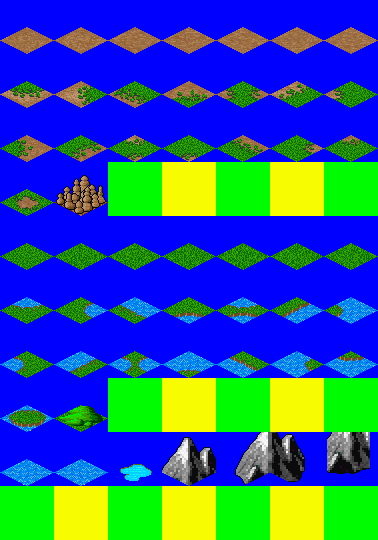
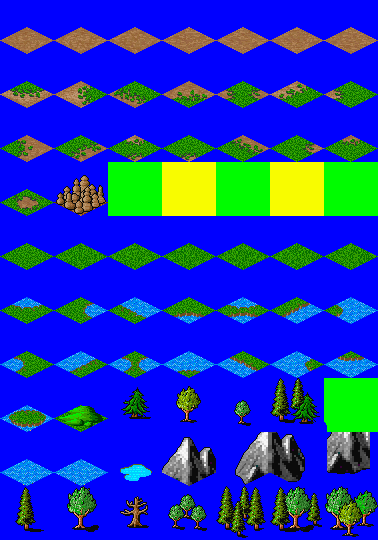
Edge of Civilization accessed from castle front door

Changed region(s): [[0.0, 0.8889, 1.0, 1.0], [0.2619, 0.6815, 0.873, 0.8]]

diff --git a/mapgen.py b/mapgen.py
@@ -4,6 +4,7 @@ import context
 import animobs
 import maps
 import waypoints
+import math
 
 class Plasma( object ):
     """Creates a plasma; cels have value from 0.0 to 1.0."""
@@ -370,6 +371,9 @@ class Room( object ):
         self.draw_direct_connection( gb, x1, y1, cx, cy )
         self.draw_direct_connection( gb, x2, y2, cx, cy )
 
+    def find_distance_to( self, oroom ):
+        return round( math.sqrt( ( self.area.centerx-oroom.area.centerx )**2 + ( self.area.centery-oroom.area.centery )**2 ) )
+
 
 class FuzzyRoom( Room ):
     """A room without hard walls, with default ground floors."""
@@ -616,37 +620,34 @@ class EdgeOfCivilization( RandomScene ):
         # Run a road along one edge of the map. Stick everything else in a
         # sub-rect to arrange there. Keep track of the civilized areas.
         self.wilds = Room( width=self.width-10, height=self.height, anchor=west, parent=self )
+        self.wilds.area = pygame.Rect( 0, 0, self.wilds.width, self.wilds.height )
         self.wilds.FUZZY_FILL_TERRAIN = maps.LOGROUND
 
         self.civilized_bits = list()
         for r in self.contents[:]:
             if r is not self.wilds:
                 self.contents.remove( r )
-                self.wilds.append( r )
+                self.wilds.contents.append( r )
                 if context.CIVILIZED in r.tags:
                     self.civilized_bits.append( r )
 
         # Create the road.
         road = pygame.Rect( self.area.x + self.area.width - 10, self.area.y, 7, self.area.height )
-        self.fill( gb, river, floor=maps.HIGROUND, wall=None )
-        self.fill( gb, river.inflate(4,0), wall=None )
+        self.fill( gb, road, floor=maps.HIGROUND, wall=None )
+        self.fill( gb, road.inflate(4,0), wall=None )
 
         self.roadbits = list()
         for y in range(10):
-            x = self.area.x + self.area.width - 10 + random(0,2)
+            x = self.area.x + self.area.width - 10 + random.randint(0,2)
             roadseg = Room( width=5, height=self.height//10, parent=self)
             roadseg.area = pygame.Rect( x, y*roadseg.height, roadseg.width, roadseg.height )
             self.roadbits.append( roadseg )
-
-    def find_distance_to_key( self, ulroom ):
-        return round( math.sqrt( ( self.key_room.area.centerx-ulroom.area.centerx )**2 + ( self.key_room.area.centery-ulroom.area.centery )**2 ) )
 
     def connect_contents( self, gb ):
         # Connect all civilized areas with HIGROUND.
         connected = self.roadbits
         for r in self.civilized_bits:
-            self.key_room = r
-            connected.sort( key=self.find_distance_to_key )
+            connected.sort( key=r.find_distance_to )
             self.draw_road_connection( gb, r.area.centerx, r.area.centery, connected[0].area.centerx, connected[0].area.centery )
             connected.append( r )
 
@@ -662,6 +663,12 @@ class EdgeOfCivilization( RandomScene ):
         path = animobs.get_line( x1,y1,x2,y2 )
         for p in path:
             self.fill( gb, pygame.Rect(p[0]-1,p[1]-1,3,3), floor=maps.HIGROUND, wall=None )
+
+    def convert_true_walls( self ):
+        for x in range( self.width ):
+            for y in range( self.height ):
+                if self.gb.map[x][y].wall == True:
+                    self.gb.map[x][y].wall = maps.TREES
 
 
 if __name__ == '__main__':

diff --git a/maps.py b/maps.py
@@ -165,6 +165,25 @@ class OnTheWallTerrain( SingTerrain ):
         else:
             return 0
 
+class CrowdTerrain( SingTerrain ):
+    def __init__( self, ident, spritesheet = SPRITE_GROUND, block_vision = False, block_walk = True, block_fly = True, inner_frames = (0,1), outer_frames=(2,3) ):
+        # ident should be the module-level name of this stat.
+        self.ident = ident
+        self.spritesheet = spritesheet
+        self.block_vision = block_vision
+        self.block_walk = block_walk
+        self.block_fly = block_fly
+        self.inner_frames = inner_frames
+        self.outer_frames = outer_frames
+    def render( self, screen, dest, view, data ):
+        view.sprites[ self.spritesheet ].render( screen, dest, data )
+    def get_data( self, view, x, y ):
+        """Pre-generate display data for this tile- facing offset."""
+        if view.space_nearby( x, y ):
+            return self.outer_frames[ view.get_pseudo_random() % len(self.outer_frames) ]
+        else:
+            return self.inner_frames[ view.get_pseudo_random() % len(self.inner_frames) ]
+
 # GROUND TYPES
 WATER = WaterTerrain( "WATER", frame = 56 )
 LOGROUND = GroundTerrain( "LOGROUND", frame = 28, edge = WATER )
@@ -184,6 +203,7 @@ MOUNTAIN_RIGHT = SingTerrain( "MOUNTAIN_RIGHT", block_walk = True, frame = 61 )
 MOUNTAIN_BOTTOM = SingTerrain( "MOUNTAIN_BOTTOM", block_walk = True, frame = 62 )
 SPIRAL_STAIRS_UP = SingTerrain( "SPIRAL_STAIRS_UP", block_walk = True, spritesheet=SPRITE_INTERIOR, frame=0 )
 SPIRAL_STAIRS_DOWN = SingTerrain( "SPIRAL_STAIRS_DOWN", block_walk = True, spritesheet=SPRITE_INTERIOR, frame=1 )
+TREES = CrowdTerrain( "TREES", inner_frames = (54,67,68,69,67,68,69), outer_frames = (51,52,53,63,64,65,66) )
 
 # DECOR TYPES
 BOOKSHELF = OnTheWallTerrain( "BOOKSHELF", frame = 13, block_walk=True )
@@ -457,6 +477,15 @@ class SceneView( object ):
     def space_to_south( self, x, y ):
         """Return True if no wall in tile to south."""
         return not self.scene.get_wall( x , y + 1 )
+
+    def space_nearby( self, x, y ):
+        """Return True if a tile without a wall is adjacent."""
+        found_space = False
+        for d in self.scene.DELTA8:
+            if not self.scene.get_wall( x + d[0], y + d[1] ):
+                found_space = True
+                break
+        return found_space
 
     def get_pseudo_random( self ):
         self.seed = ( 73 * self.seed + 101 ) % 1024

diff --git a/campaign.py b/campaign.py
@@ -196,8 +196,7 @@ if __name__=='__main__':
     for x in range( 5 ):
         for y in range( 12 ):
             myscene.map[x+14][y+10].wall = maps.BASIC_WALL
-    myscene.map[21][16].wall = maps.CLOSED_DOOR
-    myscene.map[16][21].wall = maps.STAIRS_UP
+    myscene.map[16][21].wall = maps.CLOSED_DOOR
 
     for y in range( 16 ):
         myscene.map[34][y+5].floor = maps.WATER
@@ -319,9 +318,32 @@ if __name__=='__main__':
 
     osgen.make()
 
+    scene3 = maps.Scene( 102, 102, 
+        biome=context.HAB_FOREST, setting=context.SET_RENFAN, desctags=(context.DES_CIVILIZED,) )
+    stairs_1 = waypoints.StairsDown( myscene, (21,16) )
+    stairs_2 = waypoints.SpiralStairsUp()
+    stairs_1.destination = scene3
+    stairs_1.otherside = stairs_2
+    stairs_2.destination = myscene
+    stairs_2.otherside = stairs_1
+
+
+    osgen2 = mapgen.EdgeOfCivilization( scene3 )
+    room1 = mapgen.FuzzyRoom( tags=(context.CIVILIZED,), anchor=mapgen.east, parent=osgen2 )
+    room1.contents.append( stairs_2 )
+    room2 = mapgen.FuzzyRoom( parent=osgen2 )
+    myteam = teams.Team(default_reaction=-999)
+    room2.contents.append( myteam )
+    room3 = mapgen.FuzzyRoom( tags=(context.CIVILIZED,), parent=osgen2 )
+    mychest = waypoints.MediumChest()
+    mychest.stock(5)
+    room3.contents.append( mychest )
+    osgen2.make()
+
 
     camp.scenes.append( myscene )
     camp.scenes.append( otherscene )
+    camp.scenes.append( scene3 )
 
 
     myroom = pygame.Rect(50,12,10,10)

diff --git a/waypoints.py b/waypoints.py
@@ -56,6 +56,14 @@ class SpiralStairsUp( Waypoint ):
         else:
             explo.alert( "You have just bumped the stairs. Woohoo!" )
 
+class StairsUp( SpiralStairsUp ):
+    TILE = maps.Tile( None, maps.STAIRS_UP, None )
+    ATTACH_TO_WALL = True
+
+class StairsDown( SpiralStairsUp ):
+    TILE = maps.Tile( None, maps.STAIRS_DOWN, None )
+    ATTACH_TO_WALL = True
+
 class SpiralStairsDown( Waypoint ):
     TILE = maps.Tile( None, maps.SPIRAL_STAIRS_DOWN, None )
     destination = None
